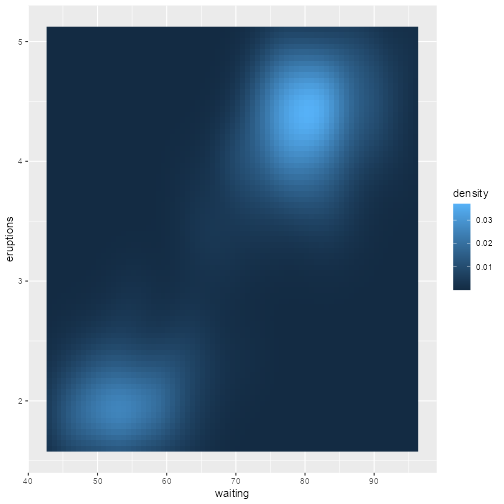
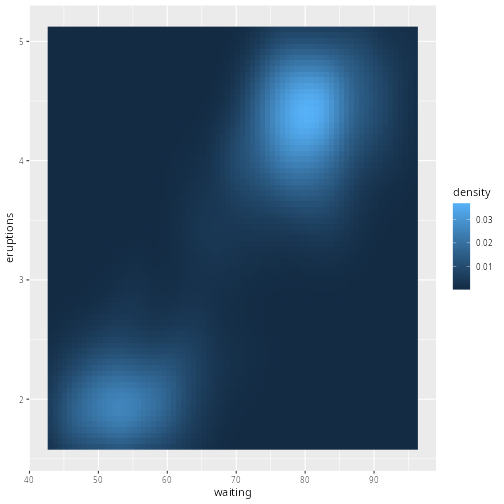
Improve fig alt

diff --git a/README.md b/README.md
@@ -1,7 +1,7 @@
 
 <!-- README.md is generated from README.Rmd. Please edit that file -->
 
-# rogtemplate <a href='https://ropengov.github.io/rogtemplate/'><img src="man/figures/logo.png" align="right" height="139"/></a>
+# rogtemplate <a href='https://ropengov.github.io/rogtemplate/'><img src="man/figures/logo.png" align="right" height="139" alt="rogtemplate hex logo with the text Part of rOpenGov" /></a>
 
 <!-- badges: start -->
 

diff --git a/index.md b/index.md
@@ -1,7 +1,7 @@
 
 <!-- index.md is generated from index.Rmd. Please edit that file -->
 
-# rogtemplate <a href='https://ropengov.github.io/rogtemplate/'><img src="man/figures/logo.png" align="right" height="139"/></a>
+# rogtemplate <a href='https://ropengov.github.io/rogtemplate/'><img src="man/figures/logo.png" align="right" height="139" alt="rogtemplate hex logo with the text Part of rOpenGov" /></a>
 
 <!-- badges: start -->
 
